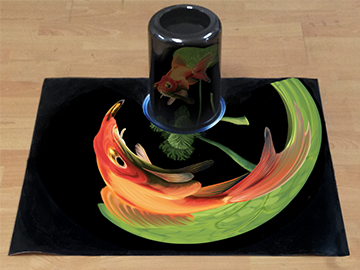
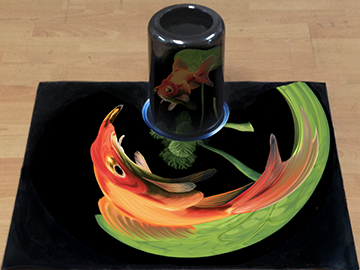
修正smudge

diff --git a/PaintProjector/ADBrushState.m b/PaintProjector/ADBrushState.m
@@ -35,7 +35,7 @@
 #define kIsShapeTextureKey              @"isShapeTexture"
 #define kIsVelocitySensorKey              @"isVelocitySensor"
 #define kIsRadiusMagnifySensorKey              @"isRadiusMagnifySensor"
-
+#define kIsOpacityLockedKey              @"isOpacityLocked"
 @implementation ADBrushState
 
 
@@ -64,7 +64,7 @@
     state.isVelocitySensor = self.isVelocitySensor;
     state.isRadiusMagnifySensor = self.isRadiusMagnifySensor;
     state.wet = self.wet;
-    
+    state.isOpacityLocked = self.isOpacityLocked;
     return state;
 }
 
@@ -92,6 +92,7 @@
         [aCoder encodeBool:self.isShapeTexture forKey:kIsShapeTextureKey];
         [aCoder encodeBool:self.isVelocitySensor forKey:kIsVelocitySensorKey];
         [aCoder encodeBool:self.isRadiusMagnifySensor forKey:kIsRadiusMagnifySensorKey];
+        [aCoder encodeBool:self.isOpacityLocked forKey:kIsOpacityLockedKey];
         [aCoder encodeFloat:self.wet forKey:kWetKey];
         const float*colors = CGColorGetComponents(self.color.CGColor);
         [aCoder encodeFloat:colors[0] forKey:kColorRKey];
@@ -131,6 +132,7 @@
             _isShapeTexture = [aDecoder decodeBoolForKey:kIsShapeTextureKey];
             _isVelocitySensor = [aDecoder decodeBoolForKey:kIsVelocitySensorKey];
             _isRadiusMagnifySensor = [aDecoder decodeBoolForKey:kIsRadiusMagnifySensorKey];
+            _isOpacityLocked = [aDecoder decodeBoolForKey:kIsOpacityLockedKey];
             _wet = [aDecoder decodeFloatForKey:kWetKey];
             CGFloat r = [aDecoder decodeFloatForKey:kColorRKey];
             CGFloat g = [aDecoder decodeFloatForKey:kColorGKey];

diff --git a/PaintProjector/ADAirBrush.m b/PaintProjector/ADAirBrush.m
@@ -34,15 +34,15 @@ static ADBrushState *brushStateAirBrush = nil;
 
 - (void)setRadiusSliderValue{
     self.radiusSliderMinValue = 5;
-    self.radiusSliderMaxValue = 60;
+    self.radiusSliderMaxValue = 100;
 }
 
 - (void)resetDefaultBrushState{
-    self.brushState.opacity = 1;
-    self.brushState.flow = 0.1;
+    self.brushState.opacity = 0.5;//1;
+    self.brushState.flow = 0.3;
     self.brushState.flowJitter = 0.0;
     self.brushState.flowFade = 0.0;
-    self.brushState.radius = 5;
+    self.brushState.radius = 30;
     self.brushState.radiusJitter = 0.0;
     self.brushState.radiusFade = 0.0;
     self.brushState.hardness = 0;
@@ -50,9 +50,9 @@ static ADBrushState *brushStateAirBrush = nil;
     self.brushState.angle = 0;
     self.brushState.angleJitter = 0.0;
     self.brushState.angleFade = 0.0;
-    self.brushState.spacing = 0.2;
-    self.brushState.scattering = 0.2;
-    self.brushState.isAirbrush = true;
+    self.brushState.spacing = 0.025;
+    self.brushState.scattering = 0;
+    self.brushState.isAirbrush = false;
     self.brushState.isPatternTexture = false;
     self.brushState.isVelocitySensor = false;
     self.brushState.isRadiusMagnifySensor = false;    

diff --git a/PaintProjector/AppDelegate.m b/PaintProjector/AppDelegate.m
@@ -332,7 +332,7 @@
     [tutorial addActionStep:@"CylinderProjectTopViewForZoom" description:NSLocalizedString(@"CylinderProjectTopViewForZoom", nil) bounds:CGRectMake(0, 0, TutorialGrid*6, TutorialGrid*1.5) arrowDirection:UIPopoverArrowDirectionDown cancelable:true];
     
     //调整缩放比例
-    [tutorial addActionStep:@"CylinderProjectSetupZoom" description:NSLocalizedString(@"CylinderProjectSetupZoom", nil) bounds:CGRectMake(0, 0, TutorialGrid*6, TutorialGrid*3.5) arrowDirection:UIPopoverArrowDirectionUp cancelable:true];
+    [tutorial addActionStep:@"CylinderProjectSetupZoom" description:NSLocalizedString(@"CylinderProjectSetupZoom", nil) bounds:CGRectMake(0, 0, TutorialGrid*6.5, TutorialGrid*3.5) arrowDirection:UIPopoverArrowDirectionUp cancelable:true];
     //    [tutorial addActionStep:@"CylinderProjectSetupZoomValue" description:NSLocalizedString(@"CylinderProjectSetupValue", nil) bounds:CGRectMake(0, 0, 256, 128) arrowDirection:UIPopoverArrowDirectionUp];
     [tutorial addActionStep:@"CylinderProjectSetupZoomValue" description:nil bounds:CGRectZero arrowDirection:UIPopoverArrowDirectionUp cancelable:true];
     

diff --git a/PaintProjector/ADBrush.m b/PaintProjector/ADBrush.m
@@ -339,11 +339,13 @@
         //第一次设置 ，或者切换brush种类，或者brush属性发生变化，都设置uniforms
         if (lastBrushState == NULL ||
             brushState.classId != lastBrushState.classId ||
+            brushState.isOpacityLocked != lastBrushState.isOpacityLocked ||
             brushState.hardness != lastBrushState.hardness ||
             brushState.roundness != lastBrushState.roundness ||
             brushState.wet != lastBrushState.wet) {
 //            DebugLogWarn(@"prepareWithBrushState brushState.wet %.1f", brushState.wet);
-            [self.material setVector:GLKVector4Make(0, brushState.hardness, brushState.roundness, brushState.wet) forPropertyName:@"Params"];
+            float opacityLock = ((ADPaintLayer*)(self.paintView.paintData.layers[self.paintView.paintData.curLayerIndex])).opacityLock ? 1.0 : 0.0;
+            [self.material setVector:GLKVector4Make(opacityLock, brushState.hardness, brushState.roundness, brushState.wet) forPropertyName:@"Params"];
         }
         
         if (lastBrushState == NULL ||

diff --git a/PaintProjector/ADPaintView.m b/PaintProjector/ADPaintView.m
@@ -89,6 +89,8 @@
 @property (retain, nonatomic) UIImageView* debugAlphaView;
 #endif
 
+#pragma mark- debug
+//@property (retain, nonatomic) UIView *debugView;
 @end
 
 @implementation ADPaintView
@@ -1454,6 +1456,11 @@
 }
 
 
+//修正brushState内容
+-(void)modifyBrushState:(ADBrushState*)brushState{
+    brushState.isOpacityLocked = ((ADPaintLayer*)(self.paintData.layers[self.paintData.curLayerIndex])).opacityLock;
+}
+
 //执行周期为一个移动单位
 - (void) willBeforeDrawBrushState:(ADBrushState*)brushState isUndoBaseWrapped:(BOOL)isUndoBaseWrapped isImmediate:(BOOL)isImmediate{
 //    DebugLog(@"[ willBeforeDraw ]");
@@ -1473,6 +1480,7 @@
         [[REGLWrapper current] bindFramebufferOES:self.brushTexture.frameBuffer discardHint:true clear:false];
     }
     
+    [self modifyBrushState:brushState];
     
     ADBrush *brush = self.brushTypes[brushState.classId];
     [brush prepareWithBrushState:brushState lastBrushState:self.lastBrushState];

diff --git a/PaintProjector/ADFinger.m b/PaintProjector/ADFinger.m
@@ -51,7 +51,7 @@ static ADBrushState *brushStateFinger = nil;
     self.brushState.angleJitter = 0;
     self.brushState.roundness = 1.0;
     self.brushState.hardness = 0;
-    self.brushState.spacing = 0.1;
+    self.brushState.spacing = 0.025;
     //    self.brushState.spacing = 1.0 / self.brushState.radius;
     self.brushState.scattering = 0;
     self.brushState.isPatternTexture = false;

diff --git a/PaintProjector/ADMarkerSquare.m b/PaintProjector/ADMarkerSquare.m
@@ -52,7 +52,7 @@ static ADBrushState *brushStateMarkerSquare = nil;
     self.brushState.angle = 30;
     self.brushState.angleJitter = 0.0;
     self.brushState.angleFade = 0.0;
-    self.brushState.spacing = 0.1;
+    self.brushState.spacing = 0.025;
     self.brushState.scattering = 0.0;
     self.brushState.isAirbrush = false;
     self.brushState.isPatternTexture = false;

diff --git a/PaintProjector/ADCrayons.m b/PaintProjector/ADCrayons.m
@@ -49,7 +49,7 @@ static ADBrushState *brushStateCrayons = nil;
     self.brushState.angleJitter = 1.0;
     self.brushState.roundness = 1.0;
     self.brushState.hardness = 1.0;
-    self.brushState.spacing = 0.1;
+    self.brushState.spacing = 0.025;
     self.brushState.scattering = 0;
     self.brushState.isAirbrush = false;
     self.brushState.isPatternTexture = true;

diff --git a/PaintProjector/ADEraser.m b/PaintProjector/ADEraser.m
@@ -62,7 +62,7 @@ static ADBrushState *brushStateEraser = nil;
     self.brushState.angle = 0;
     self.brushState.angleJitter = 0.0;
     self.brushState.angleFade = 0.0;
-    self.brushState.spacing = 0.2;
+    self.brushState.spacing = 0.05;
     self.brushState.scattering = 0.0;
     self.brushState.isAirbrush = false;
     self.brushState.isPatternTexture = false;

diff --git a/PaintProjector/ADBrushState.h b/PaintProjector/ADBrushState.h
@@ -35,5 +35,5 @@
 @property (assign, nonatomic)bool isAirbrush;
 @property (assign, nonatomic)bool isVelocitySensor;
 @property (assign, nonatomic)bool isRadiusMagnifySensor;
-
+@property (assign, nonatomic)bool isOpacityLocked;
 @end
